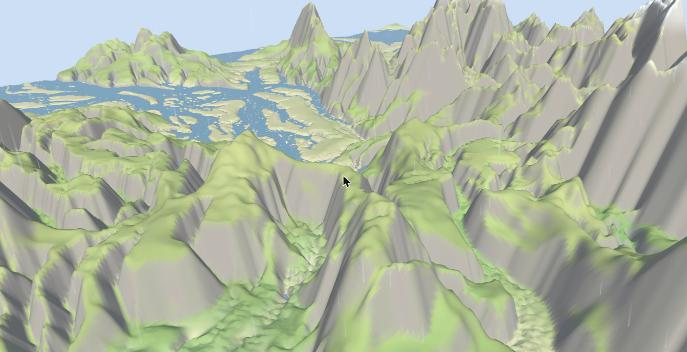
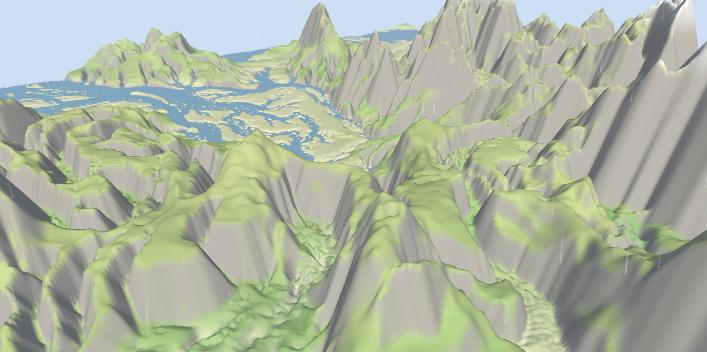
erosion: cap time step, soil creep 0.002; wind alone drives clouds and rain

diff --git a/src/sim/clouds.ts b/src/sim/clouds.ts
@@ -3,17 +3,17 @@ import { device, canvasFormat } from '../core/device';
 import { camera } from '../core/camera';
 import { HEIGHT_SCALE, WORLD_SIZE, MSAA_SAMPLES } from '../core/layout';
 import { shaderModule } from '../core/gpu';
-import type { Wind } from './wind';
+import { WIND_SPEED, type Wind } from './wind';
 import cloudsWgsl from '../shaders/weather/clouds.wgsl?raw';
 
 const spacing = 1.5; // vertical gap between layers, world units
+const DRIFT = WIND_SPEED / 2; // clouds move at half the wind speed
 
 // A few stacked layers of fbm clouds that drift over the map.
 export class Clouds {
   params = {
     show: true,
     cover: 0.4,
-    speed: 3,       // world units per second at wind strength 1
     scale: 0.045,   // noise frequency; smaller = bigger clouds
     alpha: 0.85,
     layers: 3.0,
@@ -73,7 +73,6 @@ export class Clouds {
     const folder = gui.addFolder('Clouds');
     folder.add(this.params, 'show');
     folder.add(this.params, 'cover', 0, 1);
-    folder.add(this.params, 'speed', 0, 20);
     folder.add(this.params, 'scale', 0.01, 0.1);
     folder.add(this.params, 'alpha', 0, 1);
     folder.add(this.params, 'layers', 1, 5).step(1);
@@ -81,8 +80,8 @@ export class Clouds {
 
   update(dt: number, wind: Wind) {
     const p = this.params;
-    // Accumulate the drift so changing speed or wind does not make the layer jump.
-    const drift = dt * p.speed * wind.params.strength;
+    // Accumulate the drift so changing the wind does not make the layer jump.
+    const drift = dt * DRIFT * wind.params.strength;
     this.offset[0] += wind.dir[0] * drift;
     this.offset[1] += wind.dir[1] * drift;
     device.queue.writeBuffer(this.uniforms, 0, new Float32Array([

diff --git a/src/sim/erosion_sim.ts b/src/sim/erosion_sim.ts
@@ -44,7 +44,7 @@ export class ErosionSim {
     maxDepth: 0.01,  // water depth at which erosion reaches full strength
     Kt: 0.05,
     talus: 0.025,    // height units; heights are in [0,1], so 0.025 is about 66 deg at 18x height scale
-    creep: 0.004,    // soil creep on every slope; 0 lets water erosion steepen all land to the talus angle
+    creep: 0.002,    // soil creep on every slope; 0 lets water erosion steepen all land to the talus angle
     moistureTau: 2.0, // time constant for moisture to follow water depth (see export.wgsl)
     baseline: 1.0,    // weight of the height/noise moisture baseline; 0 = water only
   };
@@ -336,9 +336,13 @@ export class ErosionSim {
     if (this.dirty) this.reset(encoder);
     this.bench?.beginFrame();
 
+    // The water passes are explicit: past cellSize / (2 sqrt(pipeCoeff)) the water depth breaks
+    // into a checkerboard, so the step stays under it.
+    const dt = Math.min(this.sim.dt, (0.9 * cellSize) / (2 * Math.sqrt(this.sim.pipeCoeff)));
+
     // Field order must match SimParams.
     device.queue.writeBuffer(this.simUniforms, 0, new Float32Array([
-      this.sim.dt,
+      dt,
       this.sim.rainRate,
       this.sim.moistureScale,
       this.sim.pipeCoeff,
@@ -352,7 +356,7 @@ export class ErosionSim {
       this.sim.maxDepth,
       this.sim.talus,
       this.sim.moistureTau,
-      this.sim.dt * this.sim.stepsPerFrame,
+      dt * this.sim.stepsPerFrame,
       this.seed,
       this.sim.baseline,
       this.sim.creep,

diff --git a/src/sim/rain.ts b/src/sim/rain.ts
@@ -3,7 +3,7 @@ import { device, canvasFormat } from '../core/device';
 import { camera } from '../core/camera';
 import { HEIGHT_SCALE, MSAA_SAMPLES } from '../core/layout';
 import { shaderModule } from '../core/gpu';
-import type { Wind } from './wind';
+import { WIND_SPEED, type Wind } from './wind';
 import rainWgsl from '../shaders/weather/rain.wgsl?raw';
 
 // Matches the rainRate slider's upper bound in erosion_sim.ts; full slider = maxDrops.
@@ -17,7 +17,6 @@ export class Rain {
     width: 0.04,
     alpha: 0.35,
     top: HEIGHT_SCALE * 1.3,
-    drift: 6, // sideways speed at wind strength 1, world units per second
   };
   private time = 0;
   private count = 0;
@@ -73,7 +72,6 @@ export class Rain {
     folder.add(this.params, 'length', 0.2, 4);
     folder.add(this.params, 'width', 0.01, 0.2);
     folder.add(this.params, 'alpha', 0, 1);
-    folder.add(this.params, 'drift', 0, 20).name('wind drift');
   }
 
   update(dt: number, rainRate: number) {
@@ -87,7 +85,7 @@ export class Rain {
       p.width,
       p.alpha,
       p.top,
-      p.drift,
+      WIND_SPEED,
     ]));
   }
 

diff --git a/src/sim/wind.ts b/src/sim/wind.ts
@@ -2,9 +2,10 @@ import type { GUI } from 'lil-gui';
 import { device } from '../core/device';
 import { createBuffer } from '../core/gpu';
 
-const GUST_SPEED = 6; // world units per second at strength 1
+export const WIND_SPEED = 6; // world units per second at strength 1
 
 // One wind for the whole scene: flowers sway with it, clouds drift along it and rain slants with it.
+// Nothing else sets their direction or speed.
 export class Wind {
   params = {
     direction: 20, // degrees, 0 blows toward +x
@@ -26,7 +27,7 @@ export class Wind {
     const angle = (this.params.direction * Math.PI) / 180;
     this.dir = [Math.cos(angle), Math.sin(angle)];
     // Accumulated, so turning the wind does not make the gusts jump.
-    const moved = this.params.strength * GUST_SPEED * dt;
+    const moved = this.params.strength * WIND_SPEED * dt;
     this.offset[0] += this.dir[0] * moved;
     this.offset[1] += this.dir[1] * moved;
     this.time += dt;

diff --git a/README.md b/README.md
@@ -176,16 +176,16 @@ With open edges, land is no longer conserved. What leaves is sediment that water
 
 ### Ximing: walking, wind, population census, lifecycle
 
-Planned: ground-level navigation, wind controls with flower sway, a check of where species grow on the eroded terrain, per-species population counts on the GPU with seeding and mortality verified, and lifecycle state for flower animation. All of it is done. Two fixes came up while checking the merged terrain, soil creep in the erosion and flooded plants.
+Planned: ground-level navigation, wind controls with flower sway, a check of where species grow on the eroded terrain, per-species population counts on the GPU with seeding and mortality verified, and lifecycle state for flower animation. All of it is done. Three fixes came up while checking the merged terrain: soil creep in the erosion, a limit on the erosion time step, and flooded plants.
 
 ![Walking through the meadow in wind and rain](media/ecosystem/eco_m2_walk.jpg)
 
-*Seed 1 at 60k erosion steps, wind strength 1.9, rain rate 0.002.*
+*Seed 1 at 60k erosion steps, wind strength 1.9, rain rate 0.002, soil creep 0.002.*
 
 #### Walking and wind
 
 - `walk (WASD)` puts the camera at eye height. Drag to look, WASD to move, Shift to run. The terrain only exists on the GPU and erosion rewrites it every frame, so the height under the camera is read back one texel at a time and the camera eases toward it
-- the `Wind` folder sets one direction and strength for the whole scene. Flowers bend downwind along an arc from the base to the top of the stem, so leaves and the head tilt with it, in gusts that travel with the wind. Clouds drift along it and rain streaks slant with it
+- the `Wind` folder sets one direction and strength for the whole scene. Flowers bend downwind along an arc from the base to the top of the stem, so leaves and the head tilt with it, in gusts that travel with the wind. Clouds drift along it and rain streaks slant with it, and neither has a speed or direction setting of its own
 - the shaded view decides water from the height of the surface at each pixel instead of once per cell, which removes a saw-tooth edge along steep shores
 
 #### Population census
@@ -199,7 +199,7 @@ Planned: ground-level navigation, wind controls with flower sway, a check of whe
 The step pass also counts births, split into seeded by a neighbour and sprouted from the seed bank, and deaths by cause: stress, crowding and old age. Two checks come out of that:
 
 - every living plant was born once and has not died, so births minus deaths must equal the count. The panel checks this on every update. It held through reseeds, seed changes and species-count changes
-- the stress rule is `mortality x (1 - viability)`. With mortality 0.04 and the measured mean viability it predicts 0.00522 deaths per plant per step. Counted over 1,005 steps on about 15,000 plants it was 0.00515. The gap is the 1.2% of plants that old age takes first each step
+- the stress rule is `mortality x (1 - viability)`. With mortality 0.04 and the measured mean viability it predicts 0.00521 deaths per plant per step. Counted over 1,001 steps on about 13,600 plants it was 0.00514. The gap is the 1.2% of plants that old age takes first each step
 
 Viability now takes the weakest of its factors instead of their product, which is the rule in Cordonnier et al. 2017.
 
@@ -250,10 +250,10 @@ The `habitat` view colors every cell by the species that fits it best, occupied 
 | | Species 1 | Species 2 | Species 3 | Species 4 | All |
 | --- | --- | --- | --- | --- | --- |
 | Habitat before erosion | 23.3% | 7.9% | 8.5% | 2.8% | 42.5% |
-| Habitat at 30k steps | 21.7% | 6.8% | 9.2% | 3.5% | 41.2% |
-| Viability at 30k steps of plants placed before erosion | 0.64 | 0.60 | 0.60 | 0.76 | |
-| Viability after reseeding and 300 steps of `play` | 0.88 | 0.90 | 0.83 | 0.86 | |
-| Plants after reseeding and 300 steps of `play` | 9,296 | 1,413 | 2,854 | 1,437 | 15,000 |
+| Habitat at 30k steps | 20.0% | 5.8% | 8.0% | 3.0% | 36.8% |
+| Viability at 30k steps of plants placed before erosion | 0.61 | 0.55 | 0.58 | 0.73 | |
+| Viability after reseeding and 300 steps of `play` | 0.88 | 0.89 | 0.83 | 0.85 | |
+| Plants after reseeding and 300 steps of `play` | 8,675 | 1,224 | 2,433 | 1,257 | 13,589 |
 
 *Seed 1, default settings, 512 x 512.*
 
@@ -263,24 +263,39 @@ All four species keep habitat on the eroded map. A placement made before erosion
 
 Left running, the erosion turned all land into needles. Measuring the steepest slope at every land cell showed why. The share of land at 60 to 70 degrees went from 12.9% before erosion to 52.0% at 100k steps. Water erosion only cuts where water is deep and fast, so channels keep deepening while the ground between them never erodes, and the thermal pass only moved material on slopes steeper than the talus limit of 66 degrees. All land steepened up to that limit and stopped there.
 
-The thermal pass now also has soil creep, a small flow down every slope (`soil creep` under Thermal erosion, default 0.004). Lowering the talus limit was tried first and only turned 66 degree needles into 43 degree pyramids.
+The thermal pass now also has soil creep, a small flow down every slope (`soil creep` under Thermal erosion, default 0.002). Lowering the talus limit was tried first and only turned 66 degree needles into 43 degree pyramids.
 
-| No creep, 100k steps | Creep 0.004, 100k steps |
+The first default was 0.004, which smoothed too much. The hills rounded off, and only 41% of the fine detail of the un-eroded terrain was left at 100k steps, against 64% at 0.002.
+
+| No creep, 100k steps | Creep 0.002, 100k steps |
 | --- | --- |
 | <img src="media/ecosystem/eco_m2_creep_off.jpg" width="420"> | <img src="media/ecosystem/eco_m2_creep_on.jpg" width="420"> |
 
-| At 100k steps | No creep | Creep 0.004 |
-| --- | --- | --- |
-| Land at 60 to 70 degrees | 52.0% | 18.0% |
-| Spikes per 1,000 land cells | 13.4 | 0.6 |
+| At 100k steps | No creep | Creep 0.002 | Creep 0.004 |
+| --- | --- | --- | --- |
+| Land at 60 to 70 degrees | 52.0% | 26.6% | 18.0% |
+| Spikes per 1,000 land cells | 13.4 | 2.7 | 0.6 |
 
-*Seed 1, default settings, same camera. A spike is a land cell more than 0.003 above all four neighbours. With creep the highest point drops from 0.994 to 0.937.*
+*Seed 1, default settings, same camera. A spike is a land cell more than 0.003 above all four neighbours. Fine detail is the mean difference between a land cell and the average of its four neighbours. With creep 0.002 the highest point drops from 0.992 to 0.950.*
 
-Erosion still never settles. Land keeps leaving through the sea edges, and faster with creep on long runs: 37.1% of the map is under water at 400k steps against 29.5% without. Pausing erosion is still how a map is kept.
+Erosion still never settles. Land keeps leaving through the sea edges, and faster with creep on long runs: 37.1% of the map is under water at 400k steps against 29.5% without, and the share of land at 60 to 70 degrees is back up to 33.3% by then. Pausing erosion is still how a map is kept.
+
+#### Fix: time step limit
+
+Raising the erosion `time step (dt)` covered the ground in a dotted texture. The water passes are explicit, and past a step of `cell size / (2 x sqrt(flow speed))`, 0.098 at the defaults, the water depth breaks into a checkerboard that the moisture map copies. The ground height itself does not get rougher. Raising `flow speed` does the same thing at the default step. The simulation now holds the step at 90% of that limit whatever the two sliders say.
+
+| dt | Flow speed | Limit | Water roughness |
+| --- | --- | --- | --- |
+| 0.095 | 1 | 0.098 | 0.11 |
+| 0.10 | 1 | 0.098 | 1.26 |
+| 0.05 | 6 | 0.040 | 1.04 |
+| 0.20 | 0.2 | 0.218 | 0.08 |
+
+*Seed 1, 300 simulated seconds each, measured before the limit was added. Water roughness is the mean difference between a wet cell's depth and the average of its four neighbours, over the mean depth. With the limit, dt 0.2 gives 0.13 and flow speed 6 gives 0.19.*
 
 #### Fix: flooded plants
 
-Plants are placed once and erosion keeps moving the coast, so with `play` off some ended up standing in the sea. The compact pass now skips a plant when the ground under it is at or below the water level, so it is not drawn. The simulation still holds it, and it dies at the normal rate once `play` is on. At 400k steps with `play` off, 3,539 of 10,863 plants were in flooded cells and none was drawn.
+Plants are placed once and erosion keeps moving the coast, so with `play` off some ended up standing in the sea. The compact pass now skips a plant when the ground under it is at or below the water level, so it is not drawn. The simulation still holds it, and it dies at the normal rate once `play` is on. At 400k steps with `play` off, 3,284 of 11,070 plants were in flooded cells.
 
 ## Shared layout
 
